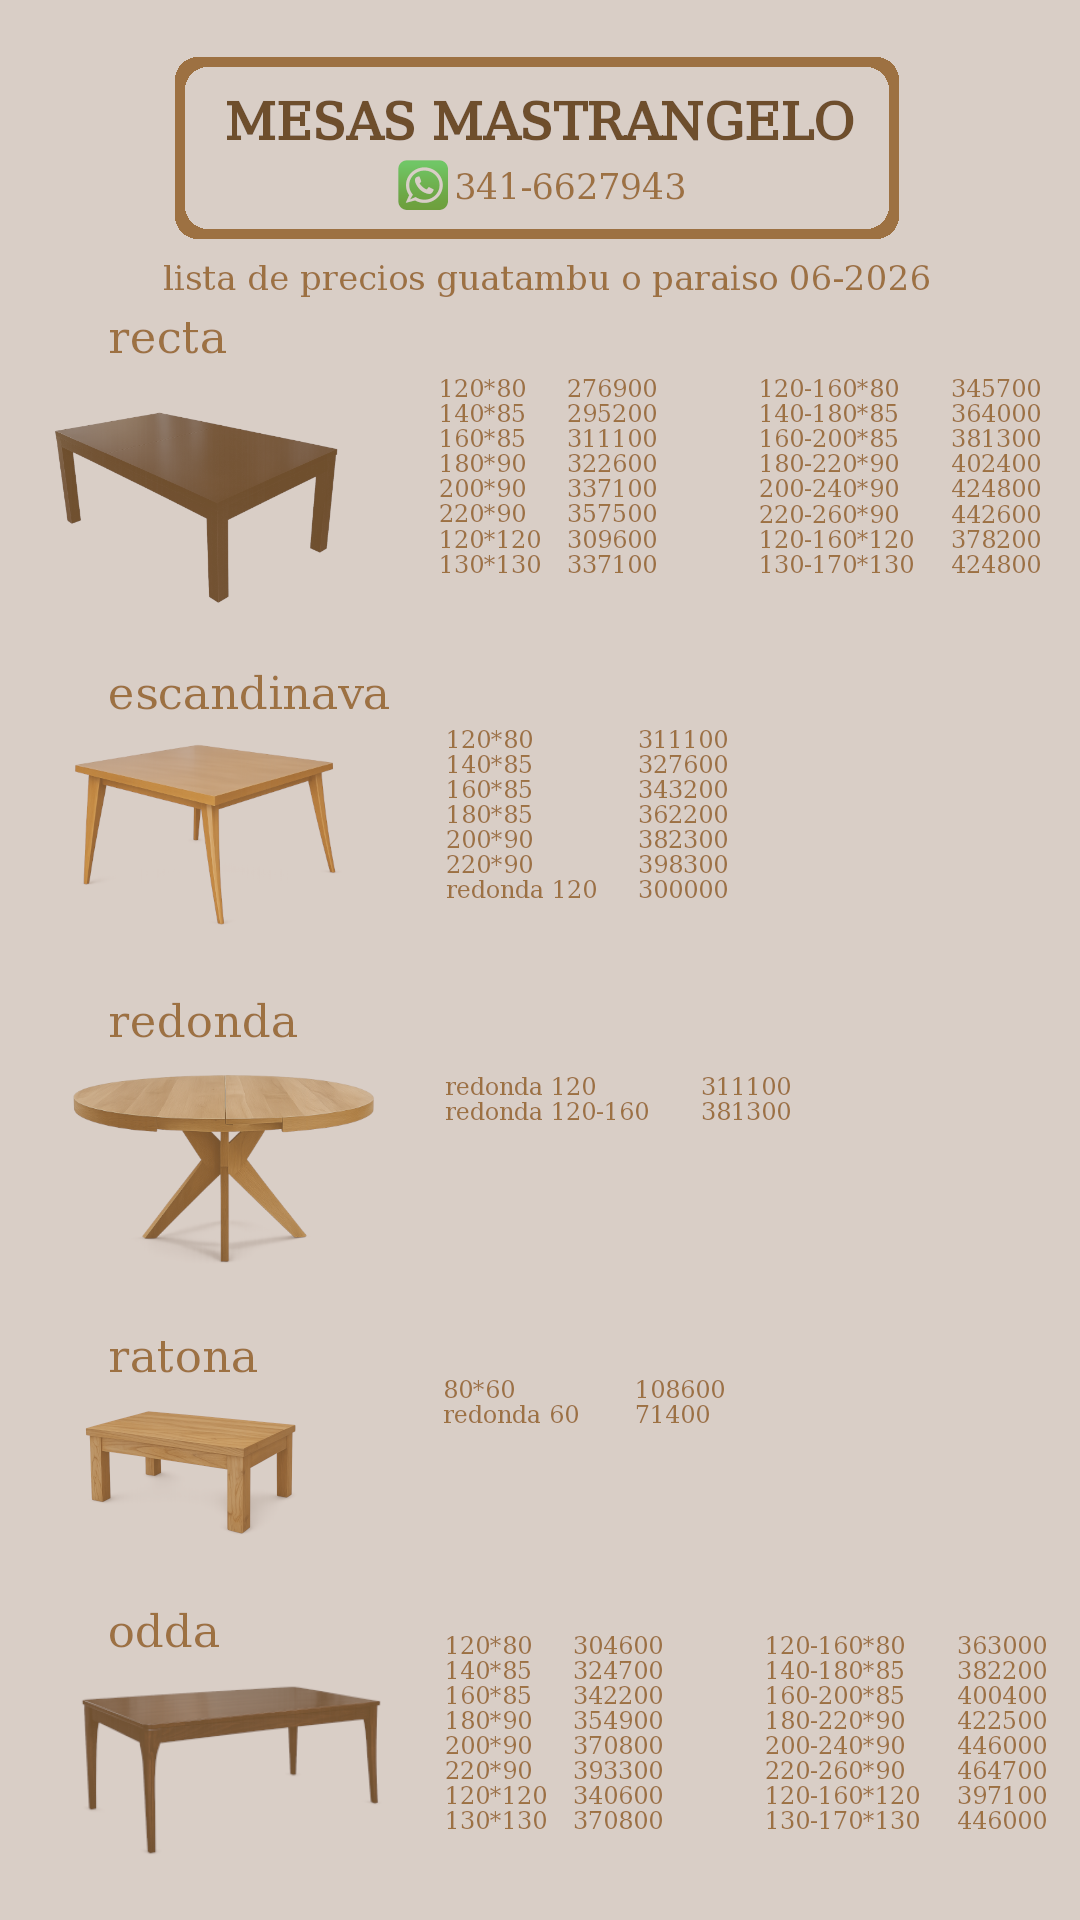
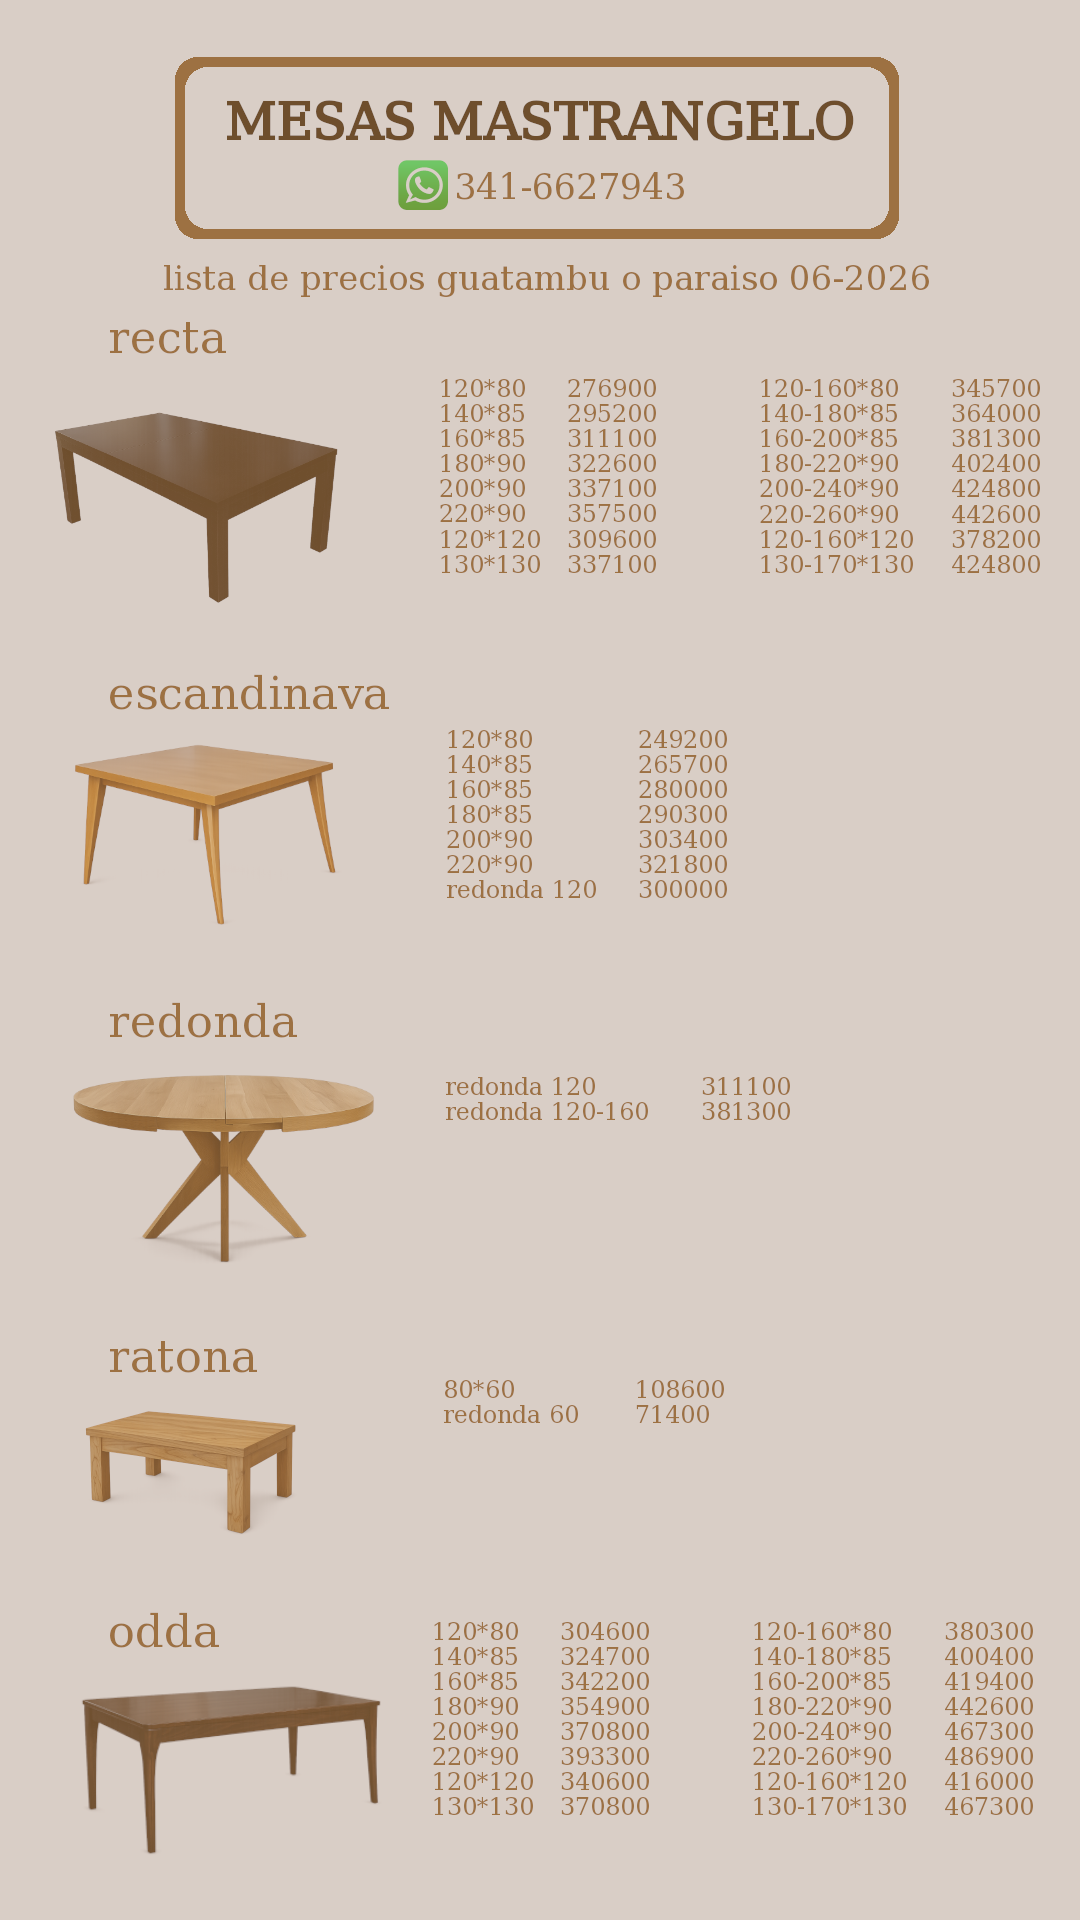
mar 02 jun 2026 17:00:04 -03

Changed region(s): [[0.7028, 0.8438, 0.9778, 0.9688], [0.3972, 0.8438, 0.6111, 0.9688], [0.5806, 0.375, 0.6417, 0.4688]]

diff --git a/infomesas-server/index.js b/infomesas-server/index.js
@@ -9,7 +9,7 @@ const app = express();
 const PORT = 3003;
 
 // Servir archivos estáticos desde la carpeta infomesas2
-const staticPath = '/home/waltermas/infomesas2';
+const staticPath = '/media/data/infomesas2';
 app.use(express.static(staticPath));
 
 // Ruta principal - sirve index.html

diff --git a/mobile/cheques.html b/mobile/cheques.html
@@ -32,7 +32,7 @@ body {
         <a class="nav-link" href="/mobile/clientes.html">Clientes</a>
       </li>
       <li class="nav-item">
-        <a class="nav-link" href="/lista.html">Lista</a>
+        <a class="nav-link" href="/lista/lista.png">Lista</a>
       </li>
       <li class="nav-item">
         <a class="nav-link" href="/mobile/cheques.html">Cheques</a>

diff --git a/mobile/clientes.html b/mobile/clientes.html
@@ -32,7 +32,7 @@ body {
         <a class="nav-link" href="/mobile/clientes.html">Clientes</a>
       </li>
       <li class="nav-item">
-        <a class="nav-link" href="/lista.html">Lista</a>
+        <a class="nav-link" href="/lista/lista.png">Lista</a>
       </li>
       <li class="nav-item">
         <a class="nav-link" href="/mobile/cheques.html">Cheques</a>

diff --git a/mobile/cuentascorrientes.html b/mobile/cuentascorrientes.html
@@ -32,7 +32,7 @@ body {
         <a class="nav-link" href="/mobile/clientes.html">Clientes</a>
       </li>
       <li class="nav-item">
-        <a class="nav-link" href="/lista.html">Lista</a>
+        <a class="nav-link" href="/lista/lista.png">Lista</a>
       </li>
       <li class="nav-item">
         <a class="nav-link" href="/mobile/cheques.html">Cheques</a>

diff --git a/mobile/notas/notas.html b/mobile/notas/notas.html
@@ -32,7 +32,7 @@ body {
         <a class="nav-link" href="/mobile/clientes.html">Clientes</a>
       </li>
       <li class="nav-item">
-        <a class="nav-link" href="/lista.html">Lista</a>
+        <a class="nav-link" href="/lista/lista.png">Lista</a>
       </li>
       <li class="nav-item">
         <a class="nav-link" href="/mobile/cheques.html">Cheques</a>

diff --git a/mobile/pendientes.html b/mobile/pendientes.html
@@ -34,7 +34,7 @@ body {
         <a class="nav-link" href="/mobile/clientes.html">Clientes</a>
       </li>
       <li class="nav-item">
-        <a class="nav-link" href="/lista.html">Lista</a>
+        <a class="nav-link" href="/lista/lista.png">Lista</a>
       </li>
       <li class="nav-item">
         <a class="nav-link" href="/mobile/cheques.html">Cheques</a>

diff --git a/mobile/precios.html b/mobile/precios.html
@@ -32,7 +32,7 @@ body {
         <a class="nav-link" href="/mobile/clientes.html">Clientes</a>
       </li>
       <li class="nav-item">
-        <a class="nav-link" href="/lista.html">Lista</a>
+        <a class="nav-link" href="/lista/lista.png">Lista</a>
       </li>
       <li class="nav-item">
         <a class="nav-link" href="/mobile/cheques.html">Cheques</a>

diff --git a/mobile/presupuestos.html b/mobile/presupuestos.html
@@ -34,7 +34,7 @@ body {
         <a class="nav-link" href="/mobile/clientes.html">Clientes</a>
       </li>
       <li class="nav-item">
-        <a class="nav-link" href="/lista.html">Lista</a>
+        <a class="nav-link" href="/lista/lista.png">Lista</a>
       </li>
       <li class="nav-item">
         <a class="nav-link" href="/mobile/cheques.html">Cheques</a>